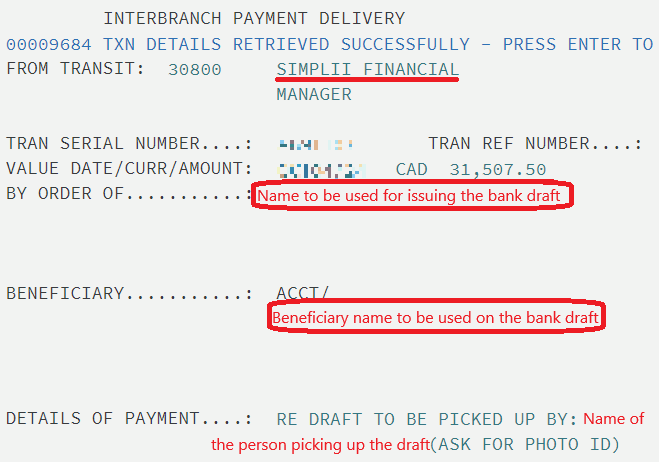
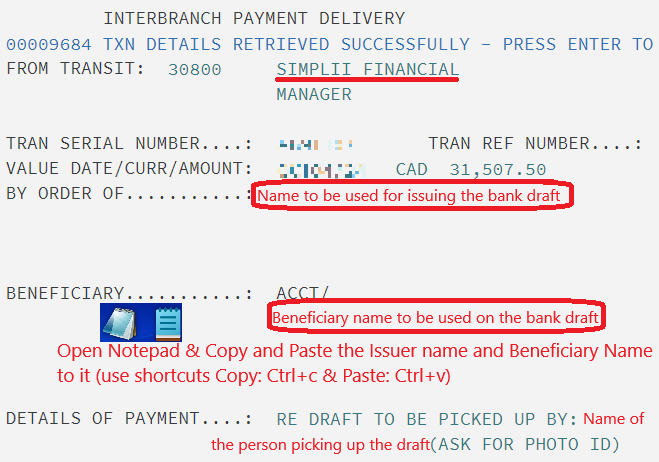
Added ProcedureLink component and implemented in Procedure0028

Changed region(s): [[0.091, 0.6364, 1.0, 0.8485]]

diff --git a/src/transaction_procedures/0028/Procedure0028.jsx b/src/transaction_procedures/0028/Procedure0028.jsx
@@ -3,10 +3,17 @@ import { ScrollAreaNoBar } from "@/components/ui/scroll-area"
 import { Separator } from "@/components/ui/separator"
 import BackButton from '../../components/BackButton';
 import SaveProcedureButton from '../../components/SaveProcedureButton';
+import ProcedureLink from '../../components/ProcedureLink';
+
 import i1 from './0028-1.png'
 import i2 from './0028-2.png'
 import i3 from './0028-3.png'
 import i4 from './0028-4.png'
+import i5 from './0028-5.png'
+import i6 from './0028-6.png'
+import i7 from './0028-7.png'
+import i8 from './0028-8.png'
+
 
 
 function Procedure0028() {
@@ -24,14 +31,28 @@ function Procedure0028() {
 
           <div className="space-y-12 text-lg text-indigo-700">
             <section>
-              <h2 className="text-2xl font-semibold text-indigo-800 mb-4">COINS 11 - 14</h2>
+              <h2 className="text-2xl font-semibold text-indigo-800 mb-4">COINS 11 - 14 - 3</h2>
               <div className="space-y-6">
-                <div className="text-lg text-indigo-700">
-                  <img src={i1} alt="ECIF Step 1" className="rounded-lg object-cover w-full shadow-lg mb-4" />
-                  <img src={i2} alt="ECIF Step 2" className="rounded-lg object-cover w-full shadow-lg mb-4" />
-                  <img src={i3} alt="ECIF Step 3" className="rounded-lg object-cover w-full shadow-lg mb-4" />
-                  <img src={i4} alt="ECIF Step 4" className="rounded-lg object-cover w-full shadow-lg mb-4" />
-                </div>
+                <img src={i1} className="rounded-lg object-cover w-full shadow-lg mb-4" />
+                <img src={i2} className="rounded-lg object-cover w-full shadow-lg mb-4" />
+                <img src={i3} className="rounded-lg object-cover w-full shadow-lg mb-4" />
+                <img src={i4} className="rounded-lg object-cover w-full shadow-lg mb-4" />
+                <img src={i5} className="rounded-lg object-cover w-full shadow-lg mb-4" />
+                <img src={i6} className="rounded-lg object-cover w-full shadow-lg mb-4" />
+              </div>
+            </section>
+            <Separator className="bg-indigo-200" />
+
+            <section>　　 　 　 　
+              <h2 className="text-2xl font-semibold text-indigo-800 mb-4">COINS 12 - 1 </h2>
+              <div className="space-y-6 text-lg text-indigo-700">
+                <img src={i7} className="rounded-lg object-cover w-full shadow-lg mb-4" />
+                <img src={i8} className="rounded-lg object-cover w-full shadow-lg mb-4" />
+                <p>From here on, it is the same as a regular bank draft</p>
+                <ProcedureLink 
+                  procedureNumber="0001" 
+                  buttonText="Continue to Regular Bank Draft Procedure"
+                />
               </div>
             </section>
           </div>

diff --git a/src/components/ProcedureLink.jsx b/src/components/ProcedureLink.jsx
@@ -1,0 +1,29 @@
+import React from 'react';
+import { Link } from "react-router-dom";
+import procedureList from '../transaction_procedures/procedureList.json';
+
+const ProcedureLink = ({ procedureNumber, buttonText, className }) => {
+  const procedure = procedureList.find(proc => proc.procedureNumber === procedureNumber);
+  
+  if (!procedure) {
+    console.error(`Procedure ${procedureNumber} not found`);
+    return null;
+  }
+
+  const formattedName = procedure.procedureName
+    .toLowerCase()
+    .replace(/[^a-z0-9]+/g, '_')
+    .replace(/^_+|_+$/g, '');
+
+  const defaultButtonText = `Continue to ${procedure.procedureName}`;
+
+  return (
+    <Link to={`/procedure/${procedureNumber}/${formattedName}`}>
+      <button className={`w-full bg-indigo-600 hover:bg-indigo-700 text-white py-2 px-4 rounded ${className || ''}`}>
+        {buttonText || defaultButtonText}
+      </button>
+    </Link>
+  );
+};
+
+export default ProcedureLink;

diff --git a/src/components/TransactionProcedureMap.jsx b/src/components/TransactionProcedureMap.jsx
@@ -22,6 +22,8 @@ import Procedure0022 from "../transaction_procedures/0022/Procedure0022";
 import Procedure0024 from "../transaction_procedures/0024/Procedure0024";
 import Procedure0025 from "../transaction_procedures/0025/Procedure0025";
 import Procedure0026 from "../transaction_procedures/0026/Procedure0026";
+// import Procedure0027 from "../transaction_procedures/0027/Procedure0027";
+import Procedure0028 from "../transaction_procedures/0028/Procedure0028";
 
 const TransactionProcedureMap = {
   1: Procedure0001,
@@ -48,6 +50,8 @@ const TransactionProcedureMap = {
   24: Procedure0024,
   25: Procedure0025,
   26: Procedure0026,
+  // 27: Procedure0027,
+  28: Procedure0028,
 };
 
 export default TransactionProcedureMap;
